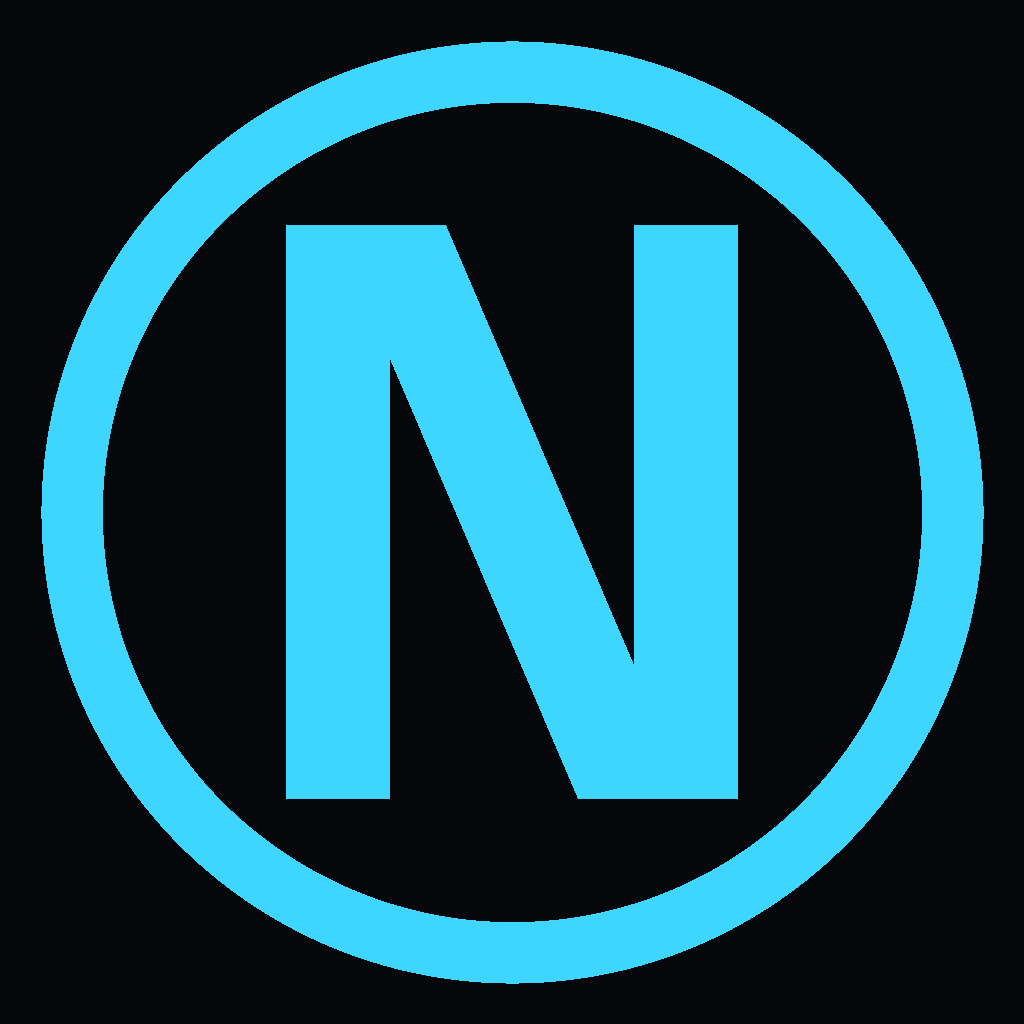
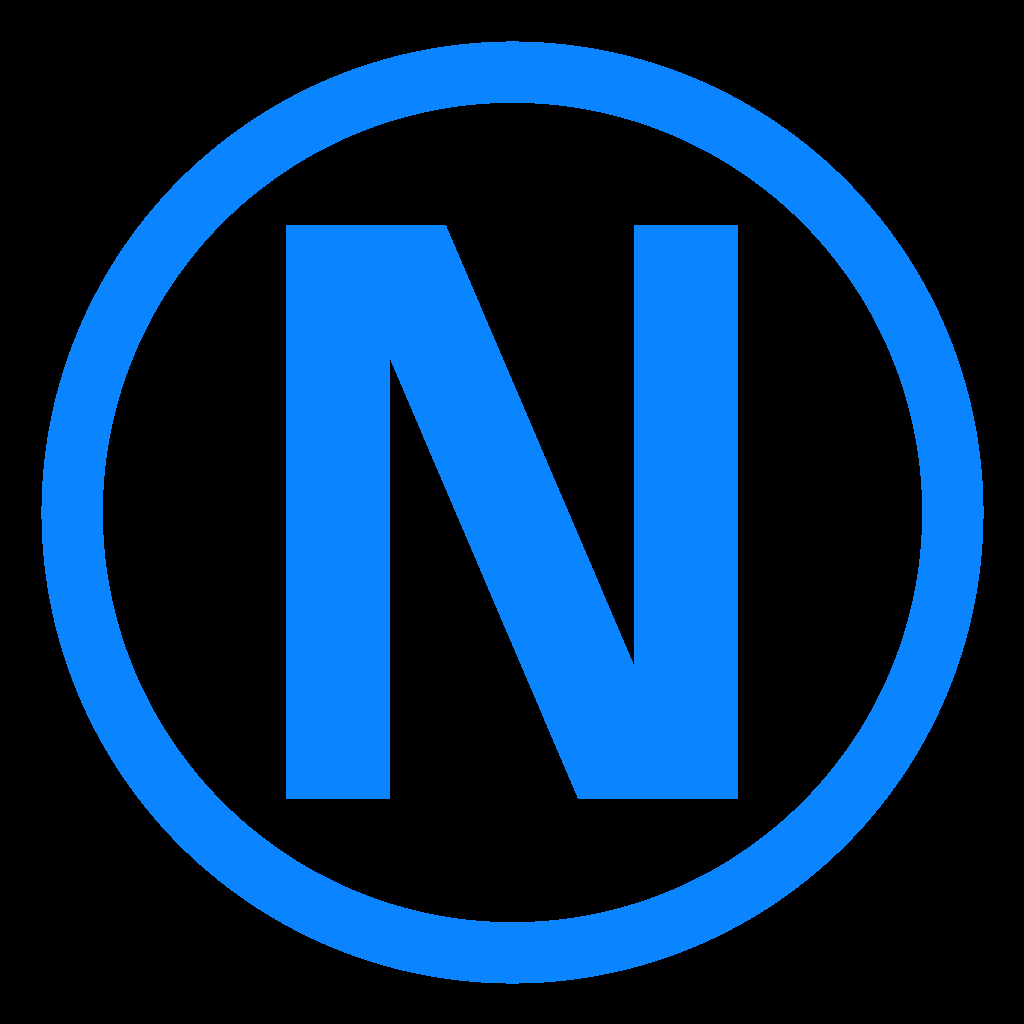
Align desktop theme and AppIcon with Apple HIG system colors.
Use dark-mode systemBlue/Green/Orange/Red and system backgrounds for the workstation UI, and regenerate the N-ring icon in systemBlue on pure black.

diff --git a/nexus_desktop.py b/nexus_desktop.py
@@ -40,22 +40,25 @@ from utils import (
 )
 
 
-# ─── Theme ───
-BG = "#05070B"
-HEADER_BG = "#070B13"
-PANEL = "#0B0F17"
-PANEL_ALT = "#101625"
-TEXT = "#D7DEE9"
-MUTED = "#8D9BB0"
-LINE = "#293245"
-ACCENT = "#3ED6FF"
-GOOD = "#36C26A"
-WARN = "#F7C948"
-BAD = "#EF4F68"
-CHIP_OK = "#143726"
-CHIP_WARN = "#3A3218"
-CHIP_BAD = "#4A1F2A"
-CHIP_NEUTRAL = "#243148"
+# ─── Theme (Apple HIG system colors — dark appearance) ───
+# Reference: https://developer.apple.com/design/human-interface-guidelines/color
+# Values are the commonly measured dark-mode system colors (adaptive in native apps).
+BG = "#000000"                 # pure black (systemBackground / edgeless)
+HEADER_BG = "#1C1C1E"          # secondarySystemBackground
+PANEL = "#1C1C1E"              # secondarySystemBackground
+PANEL_ALT = "#2C2C2E"          # tertiarySystemBackground
+TEXT = "#FFFFFF"               # label
+MUTED = "#98989D"              # secondaryLabel / systemGray
+LINE = "#38383A"               # separator
+ACCENT = "#0A84FF"             # systemBlue (dark)
+GOOD = "#30D158"               # systemGreen (dark)
+WARN = "#FF9F0A"               # systemOrange (dark)
+BAD = "#FF453A"                # systemRed (dark)
+CYAN = "#64D2FF"               # systemCyan (dark) — secondary accent
+CHIP_OK = "#0F2A18"            # green tint on black
+CHIP_WARN = "#2A1F0A"          # orange tint on black
+CHIP_BAD = "#2A1010"           # red tint on black
+CHIP_NEUTRAL = "#2C2C2E"       # tertiarySystemBackground
 
 NAV_ITEMS: List[Tuple[str, str]] = [
     ("overview", "Overview"),
@@ -895,7 +898,7 @@ class NexusDesktopApp:
         )
         canvas.create_line(right_x0, chart_top, right_x0, chart_bottom, fill=LINE)
         canvas.create_line(right_x0, chart_bottom, right_x1, chart_bottom, fill=LINE)
-        canvas.create_line(right_x0, zero_y, right_x1, zero_y, fill="#3A4660", dash=(3, 3))
+        canvas.create_line(right_x0, zero_y, right_x1, zero_y, fill=LINE, dash=(3, 3))
         canvas.create_text(right_x0 - 4, zero_y, text="0%", anchor="e", fill=MUTED, font=self.ui_font)
 
         if not samples:
